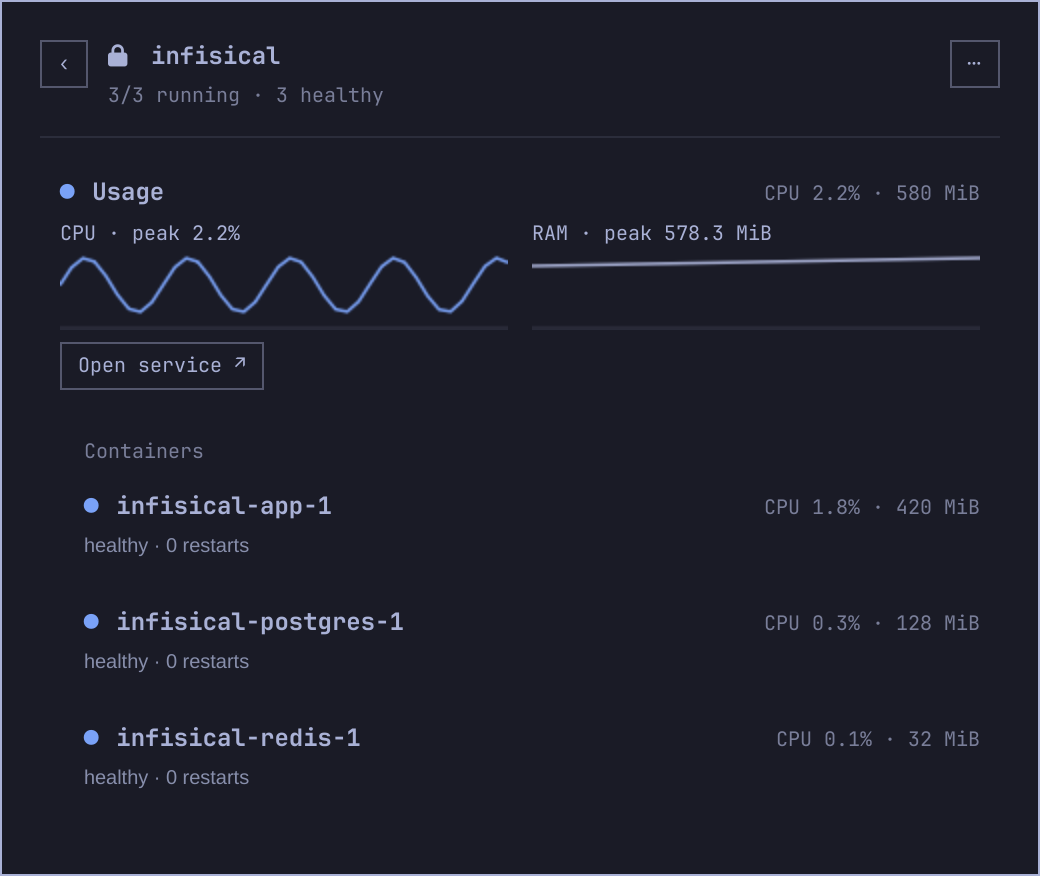
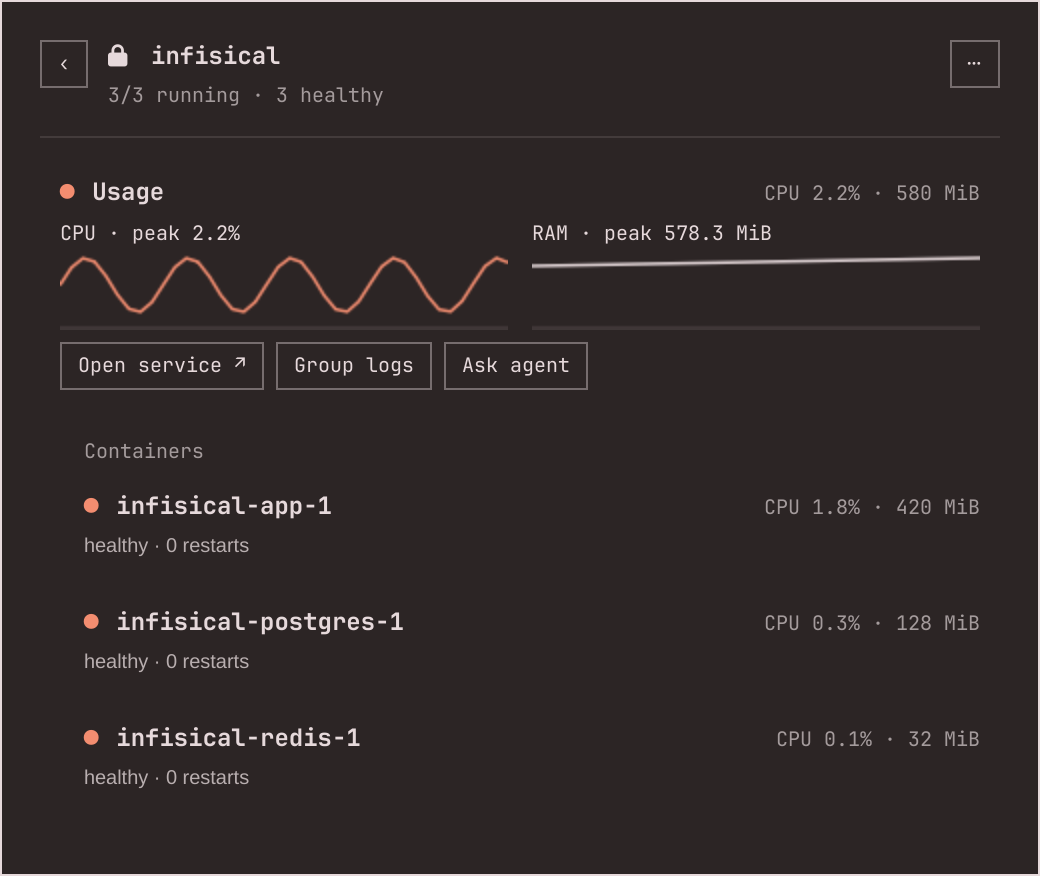
Add Ask agent for groups and containers
Opens the default Omarchy agent with a question about what the selected
software is for, limited to read-only Docker commands.

diff --git a/Model.js b/Model.js
@@ -268,6 +268,32 @@ function actionCommand(action, row) {
   return ids.length ? ["docker", action].concat(ids) : []
 }
 
+// Builds the question handed to the user's default agent. Only ids that pass
+// the same check as actionCommand are offered as docker arguments.
+function agentPrompt(row, urls) {
+  if (!row) return ""
+  var members = row.isGroup ? row.containers : [row]
+  var ids = members.map(function(c) { return c.id }).filter(function(id) { return /^[a-f0-9]{12,64}$/.test(id) })
+  var lines = members.map(function(c) {
+    var parts = [c.image || "unknown image", healthText(c)]
+    if (c.service) parts.unshift("service " + c.service)
+    return "- " + c.name + " (" + parts.join(", ") + ")"
+  })
+  urls = urls || row.urls || []
+  var subject = row.isGroup
+    ? "the Docker group \"" + row.name + "\" (" + members.length + " container" + (members.length === 1 ? "" : "s") + ")"
+    : "the Docker container \"" + row.name + "\"" + (row.project ? " from compose project \"" + row.project + "\"" : "")
+  var text = "What is " + subject + " on my machine for?\n\n" + lines.join("\n")
+  if (urls.length) text += "\nURLs: " + urls.join(", ")
+  text += "\n\nExplain what this software is, what it is likely doing here" +
+          (row.isGroup ? ", how the containers relate to each other" : "") +
+          ", and anything that looks off."
+  if (ids.length)
+    text += " You may look with read-only commands such as `docker inspect " + ids.join(" ") +
+            "` and `docker logs --tail 100 <id>`."
+  return text + " Do not start, stop, restart, remove, exec into or change any container."
+}
+
 function addHistory(previous, containers, preferences, now) {
   var next = {}
   containers.concat(groupContainers(containers, preferences)).forEach(function(c) {
@@ -313,6 +339,7 @@ if (typeof module !== "undefined") {
     healthText: healthText,
     needsAttention: needsAttention,
     actionCommand: actionCommand,
+    agentPrompt: agentPrompt,
     addHistory: addHistory,
     groupContainers: groupContainers,
     visibleRows: visibleRows,

diff --git a/Panel.qml b/Panel.qml
@@ -146,6 +146,14 @@ Panel {
     actionProc.running = true
   }
 
+  // Opens the user's default agent (omarchy agent prompt) in its own terminal.
+  function askAgent(row) {
+    var prompt = Model.agentPrompt(row, root.urlsFor(row))
+    if (!prompt) return
+    Quickshell.execDetached(["omarchy-agent-prompt", prompt])
+    root.close()
+  }
+
   function showLogs(c) {
     if (logsProc.running) return
     logsName = c.name
@@ -1109,6 +1117,13 @@ Panel {
                     text: "View logs"
                     enabled: !logsProc.running
                     onClicked: root.showLogs(containerRow.container)
+                  }
+                  MonitorButton {
+                    visible: root.detailPage && (containerRow.container.isGroup || root.containerPage)
+                    text: "Ask agent"
+                    tooltipText: containerRow.container.isGroup ? "Ask your default agent what this group is for"
+                                                                : "Ask your default agent what this container is for"
+                    onClicked: root.askAgent(containerRow.container)
                   }
                 }
 

diff --git a/test/features.test.js b/test/features.test.js
@@ -43,3 +43,14 @@ assert.equal(snap.containers[0].cpuPercent, "3%")
 assert.equal(snap.containers[0].labels, undefined)
 assert.ok(M.parseSnapshot("==INSPECT==\ninvalid").error)
 console.log("Health, custom groups, URLs, action targets, history and metadata tests passed")
+const askOne = M.agentPrompt({...web, image: "nginx:1", service: "web"}, ["https://example.test"])
+assert.match(askOne, /^What is the Docker container "web" from compose project "app" on my machine for\?/)
+assert.match(askOne, /- web \(service web, nginx:1, healthy\)/)
+assert.match(askOne, /URLs: https:\/\/example\.test/)
+assert.match(askOne, new RegExp("docker inspect " + web.id))
+assert.match(askOne, /Do not start, stop, restart, remove, exec into or change any container\.$/)
+const askGroup = M.agentPrompt(M.groupContainers([web, db])[0])
+assert.match(askGroup, /the Docker group "app" \(2 containers\)/)
+assert.match(askGroup, /how the containers relate/)
+assert.doesNotMatch(M.agentPrompt({...web, id: "--help"}), /docker inspect/)
+assert.equal(M.agentPrompt(null), "")

diff --git a/README.md b/README.md
@@ -12,6 +12,7 @@ A compact Docker dashboard for the Omarchy Quattro bar. Start with host CPU/RAM 
 - Separate container Overview and Settings pages.
 - Internal IPv4/IPv6 addresses labeled by Docker network.
 - Group logs: every container in a group merged by time, color-coded per container with the theme palette, with per-container filtering and a live follow mode.
+- Ask agent: open your default Omarchy agent with a question about what a group or container is for. Details go only to the agent you chose; the prompt tells it to use read-only Docker commands.
 - Recent logs, start/stop/restart controls, custom group names, and URL overrides.
 - RAM limits in Settings; the rest of the interface stays focused on monitoring.
 
@@ -27,6 +28,7 @@ A compact Docker dashboard for the Omarchy Quattro bar. Start with host CPU/RAM 
 - Docker CLI and access to the Docker daemon from your desktop session.
 - Python 3 and GNU coreutils (`timeout`).
 - Linux /proc for local host CPU and memory metrics.
+- Optional: a default agent set with `omarchy default agent <name>`, for Ask agent.
 
 No extra Python packages, background service, or telemetry. Service links open in your browser only when clicked. The widget uses the Docker context/environment inherited by the shell; host metrics always describe the local Linux machine. Prefer a local Docker context when comparing host and container metrics.
 

diff --git a/CHANGELOG.md b/CHANGELOG.md
@@ -1,5 +1,9 @@
 # Changelog
 
+## 0.3.0
+
+- Ask agent: a button on group and container pages opens your default Omarchy agent (`omarchy agent prompt`) asking what that software is for. The prompt carries names, images, status, and URLs, and tells the agent to use only read-only Docker commands.
+
 ## 0.2.0
 
 - Group logs: merge every container's logs in a group into one timeline, color-coded per container from the theme's palette, with click-to-hide filtering and a live follow mode. Fetched in parallel through `docker-helper.py grouplogs` under the same deadline and per-stream limits.
